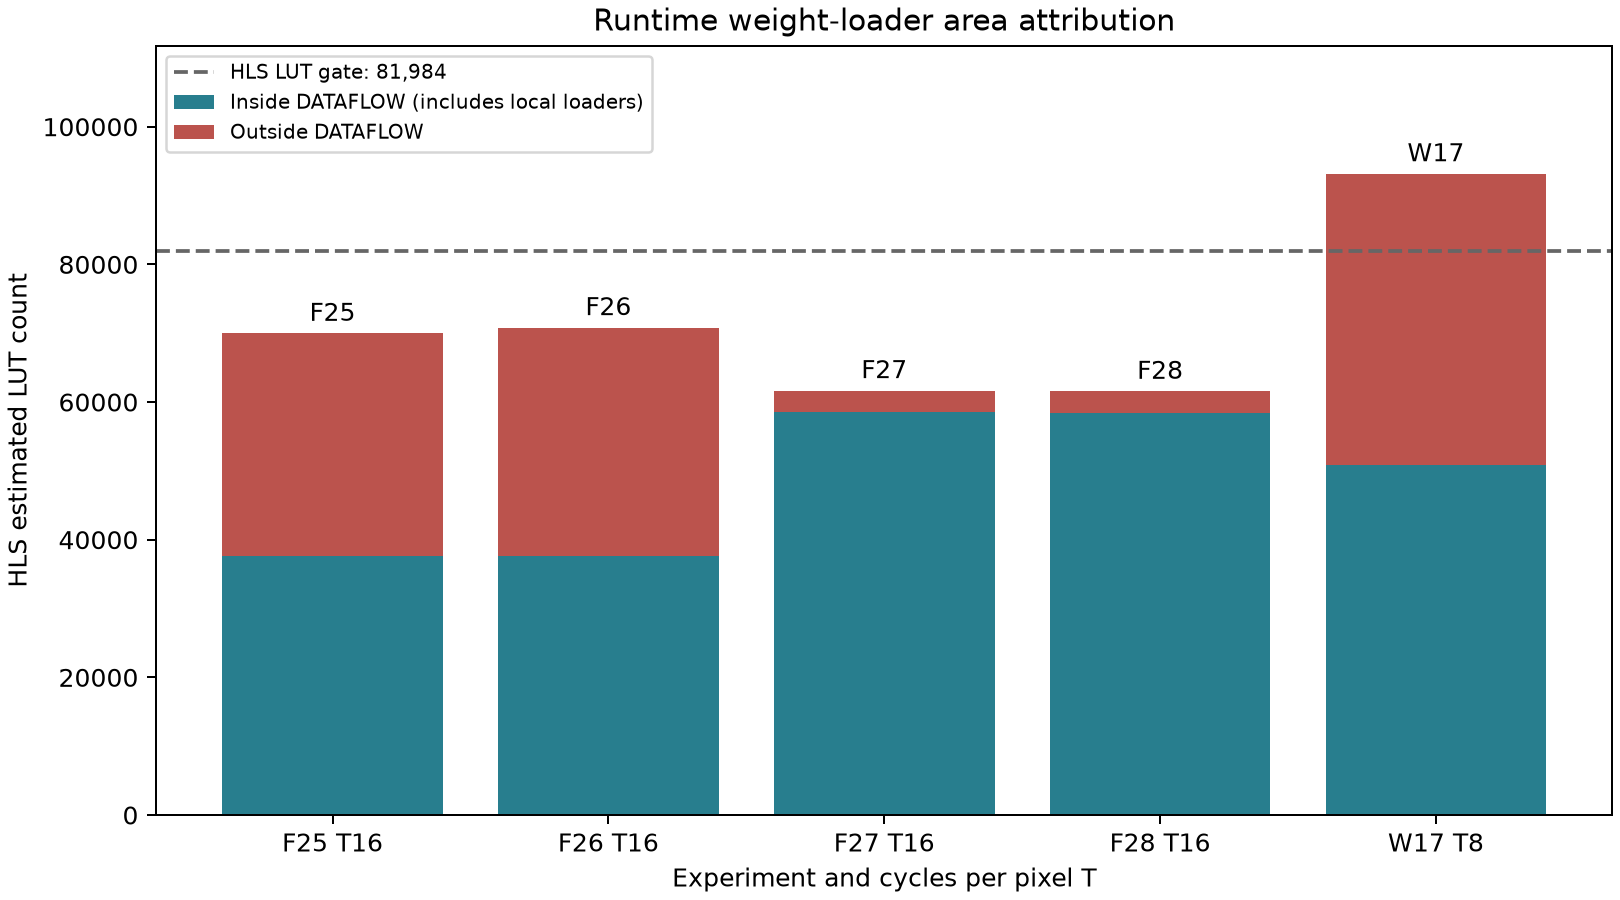
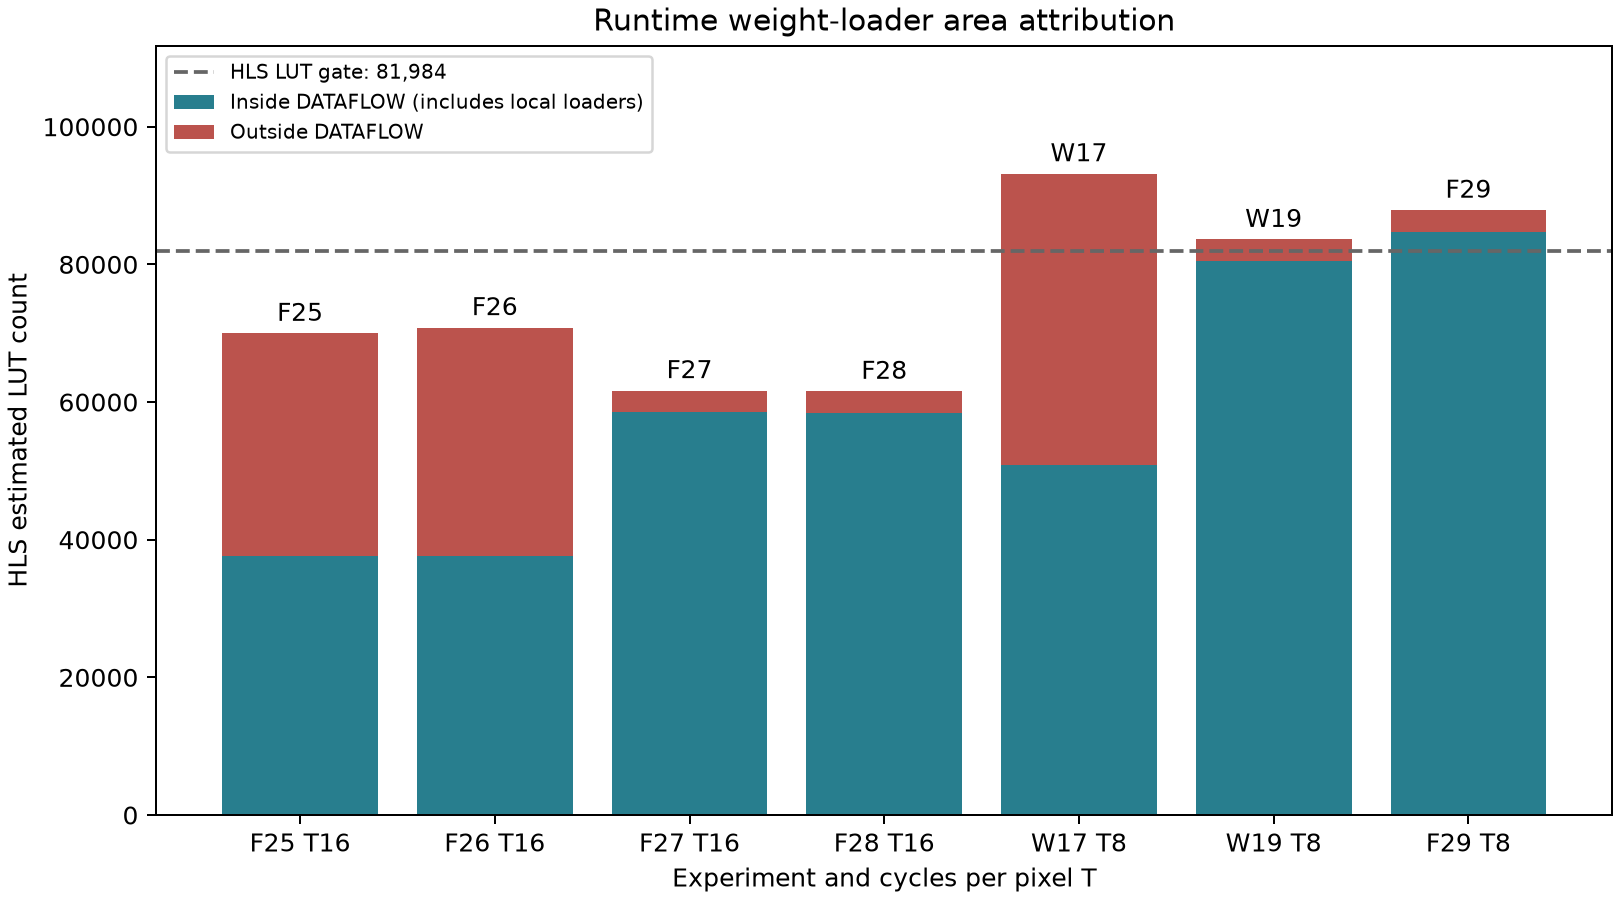
W21 record_recovery_and_loader_area_figure

diff --git a/experiments/LOG.md b/experiments/LOG.md
@@ -403,6 +403,8 @@
 
 - 2026-10-11T21:42:35+00:00: F29: streamed_direct_T8_tree1; status=infeasible; latency_ms_est=1.7507841300000002; 
 
+- 2026-10-11T21:51:24+00:00: WS3 recovery: resumed active queue64528 and W21 queue44013 without restarting their workspaces. W19/F29 are archived infeasible with exact butterflies, unchanged borders and foldII1; their manual interpretations now compare total/private-loader resources and paper estimates. W21 two-call C simulation is bit-exact and waits for W20 before synthesis. Updated recovery state and CSV-only area figure; F95 remains planned. F93 actual changed-parameter RTL PASS and latency1059506/interval1059535 are preserved separately from HLS and routed timing.
+
 ## Pending Human Decisions / 待人工决策
 
 - 2026-10-11T18:56:00+00:00: WS2/WS3 preparation: F94 independently passed all13-image exactness and mean deltaPSNR=-0.069514dB. F31 independent changed-parameter C preflight passed, with every second output bit equal104/256 and unchanged first-frame borders; this is not RTL evidence. W19/F29/F30 paper plans are committed and conditional on measured loader selection; no parent design is modified. F92 remains in placement and F28 synthesis waits for its lock.
